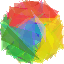
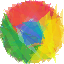
搞了个新的chrome进化图

diff --git a/ga_icon.py b/ga_icon.py
@@ -60,7 +60,9 @@ class GAIcon:
         ''' 整个染色体变异？或者是基因变异？ '''
         for shell in pop:
             if rand() < self.mut_rate:
-                shell[int(rand() * self.n_chromos)] = rand(size=self.n_genes)
+                idx = int(rand() * self.n_chromos)
+                shell[idx] += rand(-0.3, 0.3, size=self.n_genes)
+                shell[idx] = abs(shell[idx])
         return pop
 
     def selection(self, fitnesses, pop) -> ndarray:
@@ -100,6 +102,8 @@ class GAIcon:
                 fitness_trace.append(max(fitnesses))
                 # 存个点
                 if generation == catch_time:
+                    if self.mut_rate > 0.1:
+                        self.mut_rate *= 0.9
                     catch_time = next(money_num_gen)
                     idx = argmax(fitnesses)
                     chromos = [Chromo(i) for i in pop[idx]]
@@ -113,9 +117,9 @@ class GAIcon:
                 pop = self.crossover(pop)
                 # 变异
                 pop = self.mutation(pop)
-                plt.clf()
-                plt.plot(fitness_trace)
-                plt.pause(0.01)
+                # plt.clf()
+                # plt.plot(fitness_trace)
+                # plt.pause(0.01)
 
         finally:
             plt.savefig(self.desired_dir + "trace.png")

diff --git a/main.py b/main.py
@@ -2,18 +2,18 @@ from ga_icon import GAIcon
 
 # 超参数定义、
 hyper_param = {
-    "n_indis": 16,  # 贝壳数量
+    "n_indis": 32,  # 贝壳数量
     "cross_rate": 0.86,  # 交叉率
-    "mut_rate": 0.15,  # 变异率
-    "target_img": "./img/chrome64.png",
-    "desired_size": 64,  # 期望的图片大小
-    "max_iter": 10000,  # 最大迭代次数
-    "knock_rate": 0.2, # 淘汰率
+    "mut_rate": 0.8,  # 变异率
+    "target_img": "./img/bird.png",
+    "desired_size": 32,  # 期望的图片大小
+    "max_iter": 1000,  # 最大迭代次数
+    "knock_rate": 0.25,  # 淘汰率
     # "knock_rate": 0.125,
-    "n_chromos": 100,  # 一个贝壳的染色体数量
+    "n_chromos": 80,  # 一个贝壳的染色体数量
 
     # 其他参数
-    "desired_dir": "cache2/",  # 图片输出路径
+    "desired_dir": "./bird/",  # 图片输出路径
 }
 
 ga = GAIcon(**hyper_param)
